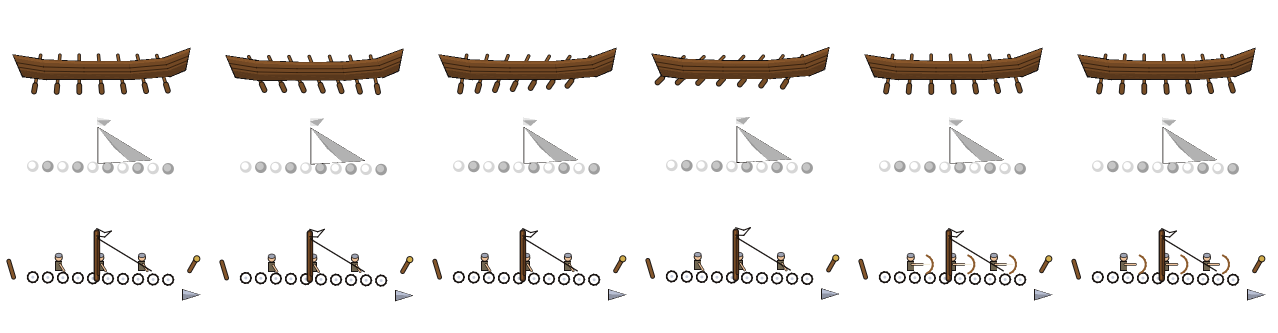
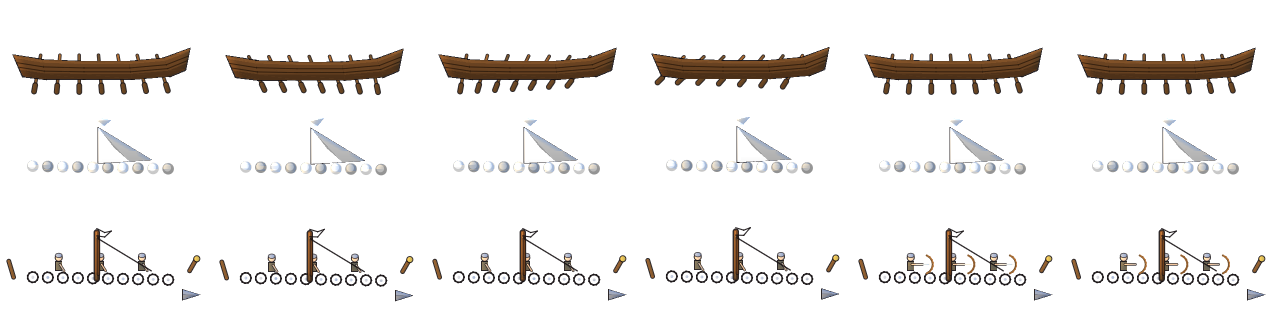
Figuras más realistas: proporciones humanas, luz global y caballos con anatomía
- Personas: hombros caídos, torso hexagonal, extremidades afusadas con
  codo/rodilla/bota/mano, túnica con falda y cinturón, cabeza afusada.
- Pase de luz por figura (_finish) en lugar de sombreado por pieza.
- Caballos: cuello y cabeza afusados, vientre, hombro y anca; yelmo del
  caballero con cruz y remaches. Monje con túnica acampanada.
- Color de equipo algo menos saturado; contornos más suaves.
- Hojas de unidades rehorneadas; README actualizado (incluye el límite:
  en juego las figuras se ven a ~0,35x, el detalle fino no se aprecia).

Claude-Session: https://claude.ai/code/session_01Y66RPhomzJL5dsRZZqiaQv

diff --git a/README.md b/README.md
@@ -201,6 +201,8 @@ $GODOT --headless --path . --import
 # ver cada unidad: tools/dump_units.gd → /tmp/units_<tipo>.png; captura en juego: tools/units_shot.tscn
 ```
 
+**Realismo de las figuras (build-19).** Las personas pasan de «muñecos de bloques» a figuras con proporción humana: hombros caídos, torso en hexágono (no rectángulo), extremidades afusadas con codo/rodilla/bota/mano (`limb`, `boot`, `hand`, `arm_seg`), túnica con falda y cinturón, cabeza afusada, y un pase de luz global por figura (`_finish`: luz cálida arriba-izquierda, sombra fría abajo-derecha) en vez de sombreado por pieza. Los caballos tienen cuello y cabeza afusados, vientre, hombro y anca marcados; el caballero lleva yelmo con cruz y remaches. Contornos más suaves y colores de equipo algo menos saturados (`team_mod` ×0,9 de saturación, ×1,12 de brillo) para que el uniforme no parezca de plástico. **Límite conocido:** en juego las figuras se ven a ~0,3-0,4× de su tamaño horneado, así que el detalle fino (dedos, remaches, pliegues) casi no se aprecia; lo que sí se nota es silueta, masa, postura y luz. La mejora es moderada y no está vista en un móvil real. Barcos y máquinas de asedio no cambian (salvo los caballos de la caballería).
+
 **Icono de la app.** Se dibuja también por código (`tools/gen_icon.gd`: castillo de sillares al atardecer, luz cálida a la izquierda y sombras azules, ventanas encendidas, estandarte del jugador; todo con `painter.gd`, sin archivos de arte externos). Genera `icon.png` (512), `art/icon/ic_main_192.png` (clásico, esquinas redondeadas) y las capas adaptativas `ic_fg_432.png` / `ic_bg_432.png` / `ic_mono_432.png`; el castillo cabe en el círculo central de 264 px que Android garantiza visible con cualquier máscara. `export_presets.cfg` las usa como `launcher_icons/*` y `art/icon/*` no entra en el paquete del juego. Para regenerarlo y ver una hoja de comprobación (tamaños 144→48 y máscaras circular/squircle/redondeada): `$GODOT --headless --path . --script res://tools/gen_icon.gd -- preview=/tmp/hoja.png` y después `--import`.
 
 Los edificios no se hornean a archivo: se pintan al arrancar (`art_buildings.gd`, ~0,4 s en el PC de pruebas, sin cambio respecto a antes) y quedan como texturas; para verlos sueltos y ampliados: `PRE=x $GODOT --headless --path . --script res://tools/dump_bld.gd -- casa centro zoom=2.4` → `/tmp/bld_sheet_x.png`.
